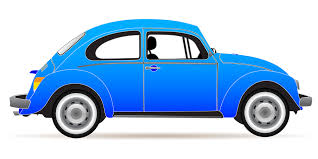
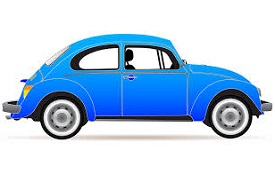
Resize transport

diff --git a/dev/index.html b/dev/index.html
@@ -475,7 +475,7 @@ https://github.com/justgrimes/wedding
 
 					<div class="col-sm-3" data-scroll-reveal="enter from the right after 0.5s">
 						<a href="https://www.airbnb.com/s/Columbia-Heights--D%252EC%252E--DC--United-States?checkin=06%2F06%2F2014&checkout=06%2F08%2F2014" class="hover-effect">
-							<img src="images/WeddingCoach.jpg" class="img-responsive img-circle" alt=""/>
+							<img src="images/WeddingCoach_small.jpg" class="img-responsive img-circle" alt=""/>
 							<span class="img-circle">
 								<i class="http://www.marriott.com/hotels/travel/wasnw-courtyard-washington-dc-dupont-circle/"></i>
 							</span>
